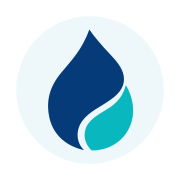
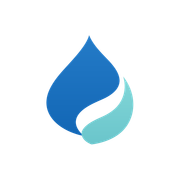
Use official brand assets

Changed region(s): [[0.25, 0.1667, 0.75, 0.8611]]

diff --git a/src/styles/global.css b/src/styles/global.css
@@ -1,12 +1,12 @@
 :root {
   --ink: #0a2342;
-  --ink-strong: #052d5f;
-  --navy: #063b7a;
-  --navy-2: #0b4f98;
+  --ink-strong: #0b3f6f;
+  --navy: #0b3f6f;
+  --navy-2: #176fbd;
   --green: var(--navy);
   --green-2: var(--navy-2);
   --teal: #006d75;
-  --aqua: #08b8be;
+  --aqua: #78cacf;
   --mint: #cbeef1;
   --mint-2: #eef8fa;
   --paper: #f8fbfc;
@@ -283,67 +283,29 @@ p {
   display: inline-flex;
   flex: 0 0 auto;
   align-items: center;
-  gap: 11px;
-  color: var(--navy);
   text-decoration: none;
 }
 
-.brand-mark-frame {
-  display: grid;
-  width: 40px;
-  height: 46px;
-  flex: 0 0 auto;
-  place-items: center;
+.brand-logo {
+  width: 100%;
+  height: auto;
 }
 
-.brand-mark {
-  width: 35px;
-  height: 42px;
+.brand-symbol {
+  height: auto;
 }
 
-.brand-symbol-navy {
-  fill: var(--navy);
+.brand-wordmark {
+  width: 184px;
 }
 
-.brand-symbol-aqua {
-  fill: var(--aqua);
+.brand-primary,
+.brand-reversed {
+  width: 220px;
 }
 
-.brand-type {
-  display: grid;
-  min-width: 126px;
-  line-height: 1;
-}
-
-.brand-type span {
-  display: flex;
-  align-items: center;
-  gap: 5px;
-  color: var(--teal);
-  font-size: 0.62rem;
-  font-weight: 800;
-  letter-spacing: 0.3em;
-  text-transform: uppercase;
-}
-
-.brand-type span::before,
-.brand-type span::after {
-  width: 11px;
-  height: 1px;
-  flex: 0 0 auto;
-  background: currentColor;
-  content: "";
-}
-
-.brand-type strong {
-  margin-bottom: 4px;
-  color: var(--navy);
-  font-family: var(--display);
-  font-size: 1.05rem;
-  font-weight: 850;
-  letter-spacing: 0.045em;
-  line-height: 1;
-  text-transform: uppercase;
+.brand-icon {
+  width: 46px;
 }
 
 .desktop-nav {
@@ -514,25 +476,12 @@ p {
 
 .site-footer {
   padding-top: 74px;
-  background: #031b46;
+  background: var(--navy);
   color: #dbeafb;
 }
 
 .site-footer .brand {
   margin-bottom: 24px;
-}
-
-.site-footer .brand-mark-frame {
-  border-radius: 50%;
-  background: var(--white);
-}
-
-.site-footer .brand-type strong {
-  color: var(--white);
-}
-
-.site-footer .brand-type span {
-  color: var(--aqua);
 }
 
 .footer-grid {
@@ -1633,17 +1582,8 @@ p {
     gap: 16px;
   }
 
-  .brand-mark {
-    width: 31px;
-    height: 38px;
-  }
-
-  .brand-type strong {
-    font-size: 0.98rem;
-  }
-
-  .brand-type span {
-    font-size: 0.58rem;
+  .brand-wordmark {
+    width: 164px;
   }
 
   .page-hero h1,

diff --git a/AGENTS.md b/AGENTS.md
@@ -29,6 +29,14 @@
 - Conversion priority: WhatsApp, then phone, then Google Maps directions.
 - Keep the design clean and editorial; avoid generic stock photography, unsupported badges, fake testimonials, excessive cards, gradients, and animation.
 
+## Brand assets
+
+- The owner-approved `Penapis Air Kesihatan` Brand Asset System v1.0 was retrieved from the owner-connected Google Drive on 21 August 2026.
+- Use the supplied official wordmark, primary/reversed lockups, and icon assets; do not redraw, re-typeset, distort, or independently rescale lockup parts.
+- Core palette: Deep Navy `#0B3F6F`, Water Blue `#176FBD`, and Aqua Pastel `#78CACF`.
+- Keep at least 1X clear space around the primary lockup, where X is the cap height of “KESIHATAN”. The full primary lockup has a 220 px minimum digital width; use the icon-only asset below that size.
+- Website-ready approved assets live in `public/brand-wordmark.svg`, `public/brand-logo.png`, `public/brand-logo-reversed.svg`, `public/brand-icon.png`, and `public/favicon.ico`.
+
 ## Source provenance
 
 - Business facts were grounded on 20 August 2026 in the owner-connected Google Drive company-research folder, plus current public sources.
